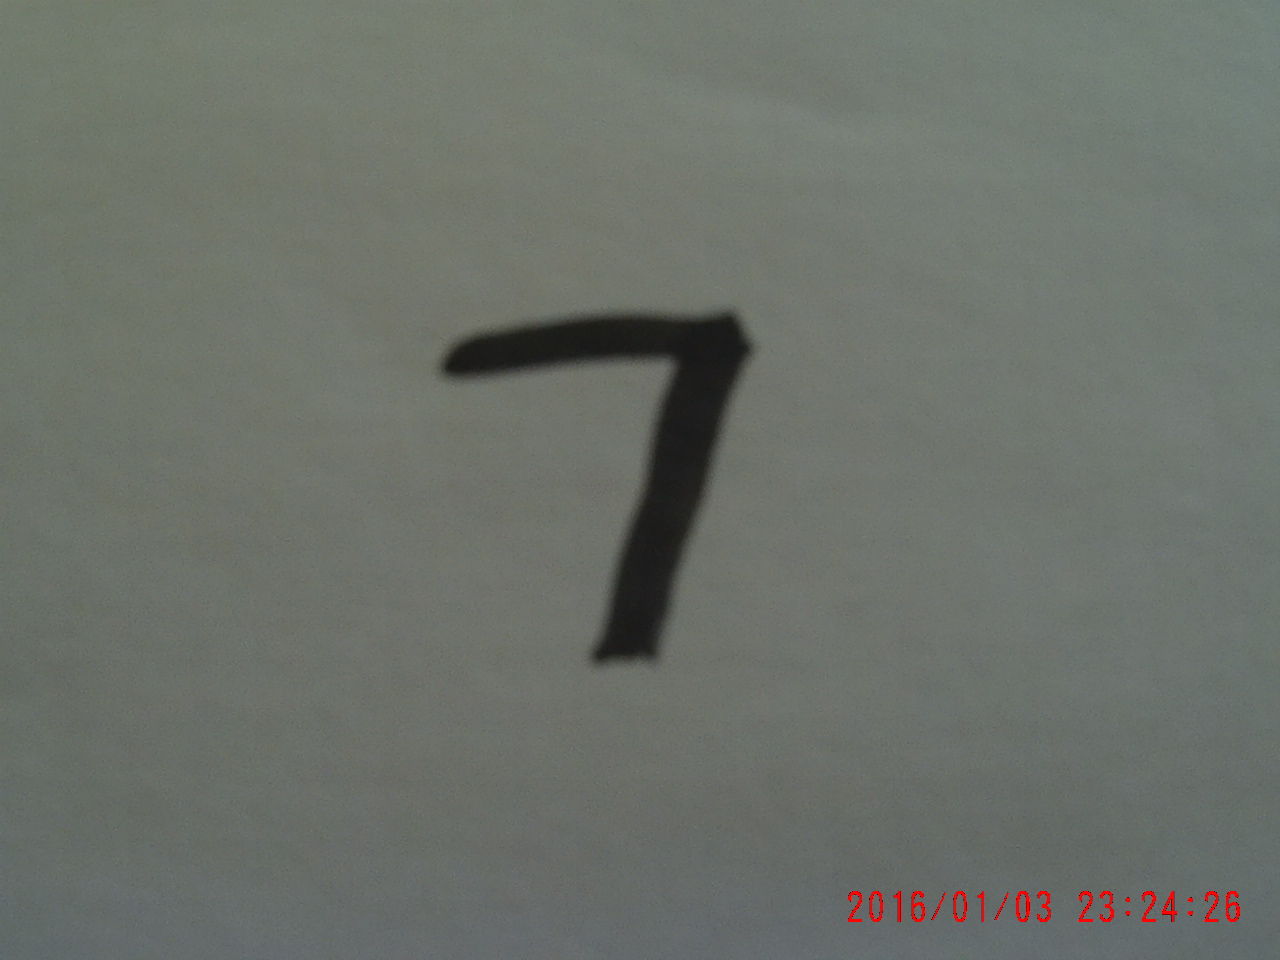
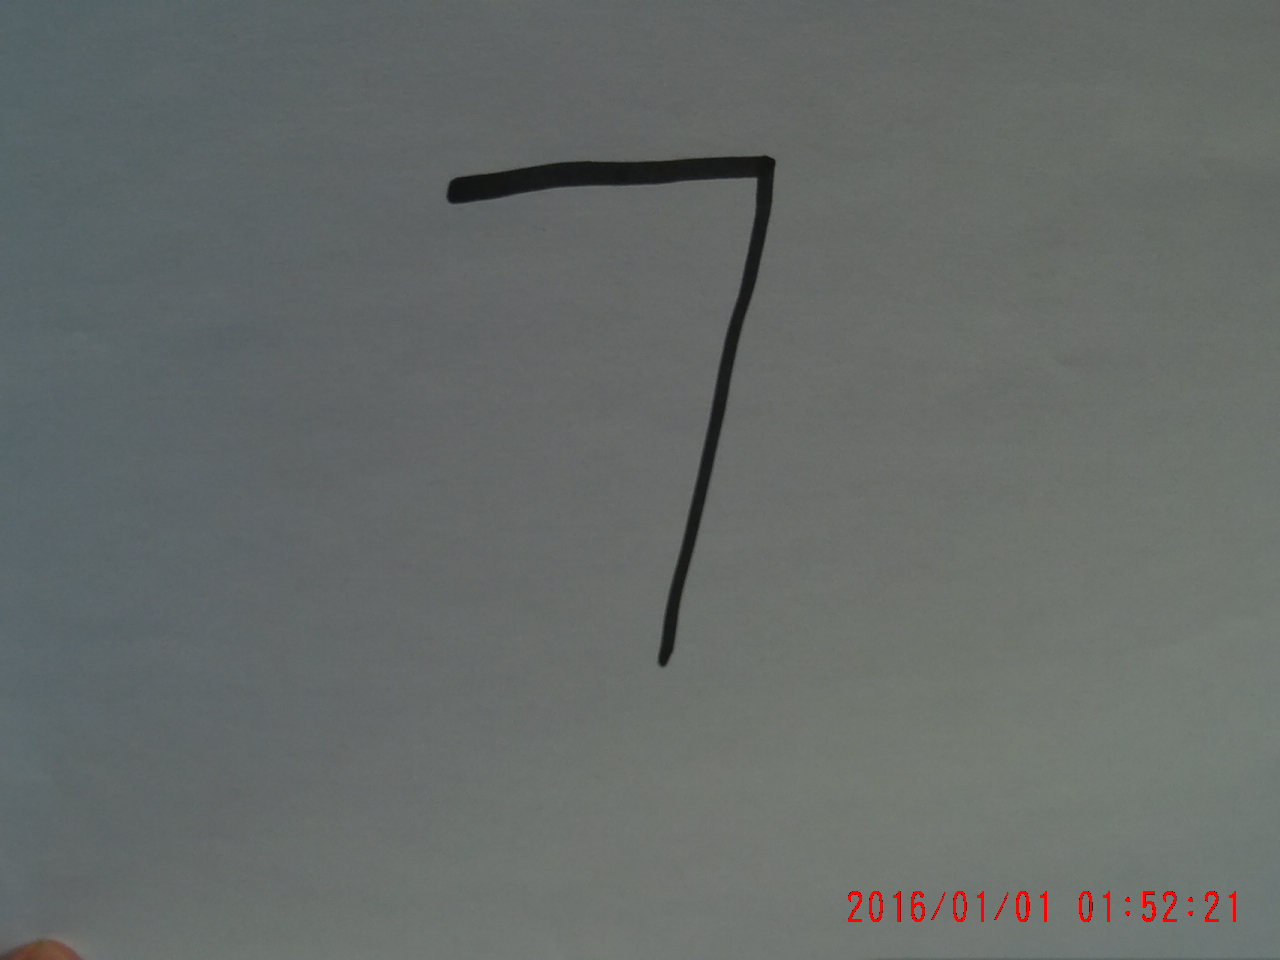
images

diff --git a/Cpu_Prototype/machine_learning/train.py b/Cpu_Prototype/machine_learning/train.py
@@ -36,7 +36,7 @@ def train(network_architecture, get_train_loader, get_test_loader, end_function,
             if(DEBUG):
                 print("Saving Model")
             save_model_function(net.get_architecture())
-        print_results(epoch_n = str(epoch_n), loss=str(loss.item()), validation_accuracy=str(validation_accuracy), acc=str(acc))
+        print_results(epoch_n=str(epoch_n), loss=str(loss.item()), validation_accuracy=str(validation_accuracy), acc=str(acc))
 
         epoch_n = epoch_n + 1
 
@@ -50,15 +50,15 @@ def test_saved_model(network_architecture, get_train_loader, get_test_loader, le
     validation_accuracy = net.get_validation_accuracy()
     acc = net.get_test_accuracy()
 
-    print_results(epoch_n = "N/A", loss=str(loss.item()), validation_accuracy=str(validation_accuracy), acc=str(acc))
+    print_results(epoch_n="N/A", loss=str(loss.item()), validation_accuracy=str(validation_accuracy), acc=str(acc))
 
-def test_single_saved_model(network_architecture, get_train_loader, get_test_loader, learning_rate, load_model_function):
+def test_single_saved_model(network_architecture, get_train_loader, get_test_loader, learning_rate, load_model_function, target_index):
     train_loader, validation_loader = get_train_loader()
     test_loader = get_test_loader()
     net = model.Model(network_architecture, train_loader, validation_loader, test_loader, learning_rate)
     
     load_model_function(net.get_architecture(), net.get_device())
-    evaluate.single_test(net.get_architecture(), test_loader, net.get_device())
+    evaluate.single_test(net.get_architecture(), test_loader, net.get_device(), target_index)
 
 def stop_at_N_epochs_closure(N_epoch):
     def end_N_epochs(n_epoch, measures):
@@ -111,11 +111,16 @@ def main():
     load_architecture_from_file = util.load_architecture_from_file_closure(save_path)
 
     # train(nn_architectures.NetFC_2, data_loader.get_train_dataloader, data_loader.get_test_dataloader, stop_at_epoch_saturation, LEARNING_RATE, save_architecture_to_file)
-    # test_saved_model(nn_architectures.NetFC_2, data_loader.get_train_dataloader, data_loader.get_test_dataloader, LEARNING_RATE, load_architecture_from_file)
-    # test_single_saved_model(nn_architectures.NetFC_2, data_loader.get_train_dataloader, data_loader.get_test_dataloader, LEARNING_RATE, load_architecture_from_file)
-    data_loader.get_custom_loader()
-    # test_single_saved_model(nn_architectures.NetFC_2, data_loader.get_train_dataloader, data_loader.get_custom_loader, LEARNING_RATE, load_architecture_from_file)
     
+    # test_saved_model(nn_architectures.NetFC_2, data_loader.get_train_dataloader, data_loader.get_test_dataloader, LEARNING_RATE, load_architecture_from_file)
+    # test_saved_model(nn_architectures.NetFC_2, data_loader.get_train_dataloader, data_loader.get_custom_loader, LEARNING_RATE, load_architecture_from_file)
+
+    temp_index = 1
+    # test_single_saved_model(nn_architectures.NetFC_2, data_loader.get_train_dataloader, data_loader.get_test_dataloader, LEARNING_RATE, load_architecture_from_file, target_index=temp_index)
+    test_single_saved_model(nn_architectures.NetFC_2, data_loader.get_train_dataloader, data_loader.get_custom_loader, LEARNING_RATE, load_architecture_from_file, target_index=temp_index)
+    
+    # data_loader.get_custom_dataset()
+    # data_loader.get_custom_loader()ff
 
 if __name__ == "__main__":
     main()

diff --git a/Cpu_Prototype/machine_learning/data_loader/convert_custom.py b/Cpu_Prototype/machine_learning/data_loader/convert_custom.py
@@ -15,9 +15,11 @@ np.set_printoptions(threshold=sys.maxsize)
 
 SCALE_FACTOR_REMOVE_TIME_STAMP = 0.9
 
-def show_jpg(jpg_path, save_path):
+def jpg_to_numpy(jpg_path, save_path):
     with Image.open(jpg_path) as img:
-        target_size = 128, 128
+        target_height = 28
+        target_width = 28
+        target_size = target_height, target_width
 
         width, height = img.size 
         area = (0, 0, (width * 960/1280) * SCALE_FACTOR_REMOVE_TIME_STAMP, height * SCALE_FACTOR_REMOVE_TIME_STAMP) # rescale to square and remove time stamp
@@ -28,8 +30,11 @@ def show_jpg(jpg_path, save_path):
         img_np = 255 - img_np # invert 
         # img_np = img_np -  img_np.min() # offset by subtracting min
         (ret, img_np) = cv2.threshold(img_np, 0, 255, cv2.THRESH_OTSU)
-        img_np = img_np.reshape(1,128,128)
+        img_np = img_np.astype(np.float32)
+        img_np = img_np.reshape(1,target_height,target_width)
         np.save(save_path, img_np)
+        # print(img_np)
+
         # img_tensor = torch.from_numpy(img_np)
         # torch.save(img_tensor, save_path)
         # img_tensor = torch.load(save_path)
@@ -42,18 +47,17 @@ def main():
         JPG_DATA_DIR = config['dataset']['JPG_DATA_DIR']
         NUMPY_SAVE_DIR = config['dataset']['NUMPY_SAVE_DIR']
 
-    jpg_name = "Test_7_0.JPG"
     pwd_path = os.path.abspath(os.path.dirname(__file__))
-    jpg_path = os.path.join(pwd_path, JPG_DATA_DIR, jpg_name)
+    jpg_dir_path = os.path.join(pwd_path, JPG_DATA_DIR)
+    all_files = os.listdir(jpg_dir_path)
+    jpg_files = [files for files in all_files if ('JPG' == files[-3:])]
 
-    period_loc = jpg_name.index('.')
-    numpy_file = jpg_name[:period_loc]
-    print(numpy_file)
-    save_path = os.path.join(pwd_path, JPG_SAVE_DIR, numpy_file)
-    # print(pwd_path)
-    # print(jpg_path)
-    # print(save_path)
-    show_jpg(jpg_path, save_path)
+    for jpg_name in jpg_files: 
+        jpg_path = os.path.join(pwd_path, JPG_DATA_DIR, jpg_name)
+        period_loc = jpg_name.index('.')
+        numpy_file = jpg_name[:period_loc]
+        save_path = os.path.join(pwd_path, NUMPY_SAVE_DIR, numpy_file)
+        jpg_to_numpy(jpg_path, save_path)
 
 if __name__ == "__main__":
     main()

diff --git a/Cpu_Prototype/machine_learning/model/evaluate.py b/Cpu_Prototype/machine_learning/model/evaluate.py
@@ -19,26 +19,39 @@ def accuracy(architecture, data_loader, device):
 
     return acc
 
-def single_test(architecture, data_loader, device):
+def single_test(architecture, data_loader, device, target_index):
     saved_test_x = None
 
-    correct = 0
+    current_index = 0
     architecture.eval()
     with torch.no_grad():
-        batch_x_y = next(iter(data_loader))
-        batch_x = batch_x_y[0]
-        batch_y = batch_x_y[1]
-        x_1 = batch_x[0]
-        y_1 = batch_y[0]
-        
-        x_1 = x_1.to(device)
-        y_1 = y_1.to(device)
-        output = architecture(x_1)
-        pred = output.argmax(dim=1, keepdim=True)
-        title = "Pred: " + str(pred) + " | Correct: " + str(y_1)
-        util.imshow(x_1, title)
+        for test_x, test_y in data_loader:
+            current_index = current_index + 1
+            x_1 = test_x[target_index]
+            y_1 = test_y[target_index]
+            
+            x_1 = x_1.to(device)
+            y_1 = y_1.to(device)
+            output = architecture(x_1)
+            pred = output.argmax(dim=1, keepdim=True)
+            title = "Pred: " + str(pred) + " | Correct: " + str(y_1)
+            util.imshow(x_1, title)
 
-        # print((x_1.numpy()))
+        # # print(type(data_loader))
+        # for i in range(target_index+1):
+        #     print("iterated")
+        #     batch_x_y = next(iter(data_loader))
+        # batch_x = batch_x_y[0]
+        # batch_y = batch_x_y[1]
+        # x_1 = batch_x[0]
+        # y_1 = batch_y[0]
+        
+        # x_1 = x_1.to(device)
+        # y_1 = y_1.to(device)
+        # output = architecture(x_1)
+        # pred = output.argmax(dim=1, keepdim=True)
+        # title = "Pred: " + str(pred) + " | Correct: " + str(y_1)
+        # util.imshow(x_1, title)
 
 def loss(architecture, data_loader, loss_fn, device):
     architecture.eval()

diff --git a/Cpu_Prototype/machine_learning/data_loader/data_loader.py b/Cpu_Prototype/machine_learning/data_loader/data_loader.py
@@ -53,14 +53,25 @@ def get_custom_dataset():
 
     custom_dataset = []
 
-    numpy_file = "Test_7_0.npy"
     pwd_path = os.path.abspath(os.path.dirname(__file__))
-    numpy_path = os.path.join(pwd_path, NUMPY_SAVE_DIR, numpy_file)
+    jpg_dir_path = os.path.join(pwd_path, NUMPY_SAVE_DIR)
+    all_files = os.listdir(jpg_dir_path)
+    npy_files = [files for files in all_files if ('npy' == files[-3:])]
+    
+    for numpy_file in npy_files:
+        first_underscore = numpy_file.index("_")
+        second_underscore = numpy_file.index("_", first_underscore+1)
+        label = int(numpy_file[first_underscore+1:second_underscore])
+        label_np = np.array([label])
 
-    img_np = np.load(numpy_path)
-    img_tensor = torch.from_numpy(img_np)
+        pwd_path = os.path.abspath(os.path.dirname(__file__))
+        numpy_path = os.path.join(pwd_path, NUMPY_SAVE_DIR, numpy_file)
 
-    custom_dataset.append(img_tensor)
+        img_np = np.load(numpy_path)
+        img_tensor = torch.from_numpy(img_np)
+        label_tensor = torch.from_numpy(label_np)
+
+        custom_dataset.append([img_tensor, label_tensor])
 
     return custom_dataset
 
@@ -92,13 +103,6 @@ def get_train_dataloader():
 def get_custom_loader():
     custom_dataset = get_custom_dataset()
     total_size = len(custom_dataset)
-
-    test_dataset = get_test_dataset()
-
-    print((custom_dataset.numpy()))
-    # print((test_dataset))
-    # print(type(custom_dataset))
-    # print(type(test_dataset))
 
     custom_loader = torch.utils.data.DataLoader(dataset=custom_dataset, batch_size=total_size, shuffle=False)
 
